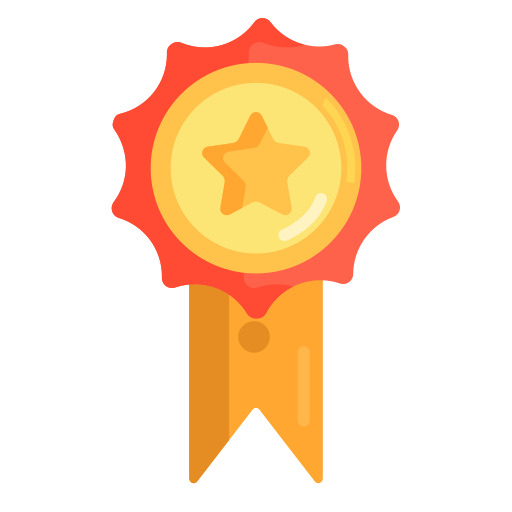
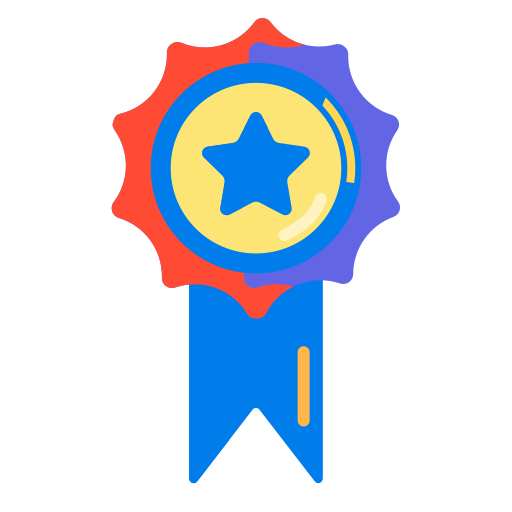
optimus layout color

Changed region(s): [[0.2812, 0.0625, 0.7812, 0.9375], [0.375, 0.2188, 0.625, 0.4375]]

diff --git a/src/components/client/search.client.tsx b/src/components/client/search.client.tsx
@@ -21,7 +21,8 @@ import { useNavigate, useSearchParams, useLocation } from "react-router-dom";
 import { useAppDispatch } from "@/redux/hooks";
 import { findJobsByAI } from "@/redux/slice/jobSlide";
 import Typewriter from "typewriter-effect";
-import styles from "styles/client.module.scss";
+import "@/styles/stylespotfolio/search.client.scss";
+import { useCurrentApp } from "../context/app.context";
 
 const { Option } = Select;
 
@@ -34,6 +35,7 @@ const SearchClient = () => {
   const [searchParams] = useSearchParams();
   const location = useLocation();
   const dispatch = useAppDispatch();
+  const { theme } = useCurrentApp();
 
   useEffect(() => {
     // CẬP NHẬT USEEFFECT ĐỂ ĐỌC CẢ THAM SỐ CỦA AI SEARCH
@@ -215,7 +217,22 @@ const SearchClient = () => {
       <div className="search-form-overlay">
         <Row justify="center">
           <Col span={24} style={{ textAlign: "center", marginBottom: "20px" }}>
-            <h2 className="typewriter-title">
+            <h2
+              style={{
+                ...(theme === "dark"
+                  ? {
+                      background:
+                        "linear-gradient(90deg, #1b74ff, #a880ff 96.79%)",
+                      WebkitBackgroundClip: "text",
+                      backgroundClip: "text",
+                      color: "transparent",
+                      fontWeight: 500,
+                    }
+                  : { color: "#000" }),
+                fontWeight: 600,
+                marginBottom: "0.25rem",
+              }}
+            >
               <Typewriter
                 options={{
                   strings: [

diff --git a/src/pages/job/JobDetailPanel.tsx b/src/pages/job/JobDetailPanel.tsx
@@ -17,6 +17,7 @@ import dayjs from "dayjs";
 import relativeTime from "dayjs/plugin/relativeTime";
 import ApplyModal from "@/components/client/modal/apply.modal";
 import { Link } from "react-router-dom";
+import { useCurrentApp } from "@/components/context/app.context";
 
 dayjs.extend(relativeTime);
 
@@ -26,6 +27,7 @@ const JobDetailPanel = () => {
   const [isModalOpen, setIsModalOpen] = useState<boolean>(false);
   const [searchParams] = useSearchParams();
   const id = searchParams.get("id");
+  const { theme } = useCurrentApp();
 
   useEffect(() => {
     const fetchJobDetail = async () => {
@@ -77,9 +79,17 @@ const JobDetailPanel = () => {
                     rel="noopener noreferrer"
                     className="company-name"
                     style={{
-                      textDecoration: "none",
-                      color: "var(--text-gray)",
-                      cursor: "pointer",
+                      ...(theme === "dark"
+                        ? {
+                            background:
+                              "linear-gradient(90deg, #1b74ff, #a880ff 96.79%)",
+                            WebkitBackgroundClip: "text",
+                            backgroundClip: "text",
+                            color: "transparent",
+                            textDecoration: "none",
+                          }
+                        : { color: "#000", textDecoration: "none" }),
+                      fontWeight: 600,
                     }}
                     onMouseOver={(e) =>
                       (e.currentTarget.style.textDecoration = "underline")

diff --git a/src/styles/panel-detail.scss b/src/styles/panel-detail.scss
@@ -36,8 +36,15 @@
         font-size: 1.75rem;
         margin-bottom: 0.5rem;
         font-weight: 600;
-        color: var(--text-white);
+        background: var(--linear-gradient-blue-purple-company);
         line-height: 1.2;
+
+        -webkit-background-clip: text;
+        /* Dành cho trình duyệt Chrome/Safari */
+        background-clip: text;
+
+        /* Làm cho màu của chữ trở nên trong suốt để nền hiện ra */
+        color: transparent;
       }
       .location {
         font-size: 0.9rem;
@@ -103,4 +110,39 @@
 /* Hoặc nếu bạn muốn chỉ áp dụng cho thẻ strong */
 [data-bs-theme="dark"] strong[style*="color"] {
   color: #ffffff !important;
+}
+
+[data-bs-theme="dark"] {
+  .company-title {
+    .name {
+      font-size: 1.75rem;
+      margin-bottom: 0.5rem;
+      font-weight: 600;
+      background: var(--linear-gradient-blue-purple);
+      line-height: 1.2;
+
+      -webkit-background-clip: text;
+      /* Dành cho trình duyệt Chrome/Safari */
+      background-clip: text;
+
+      /* Làm cho màu của chữ trở nên trong suốt để nền hiện ra */
+      color: transparent;
+    }
+    .location {
+      font-size: 0.9rem;
+      color: var(--text-gray);
+    }
+  }
+}
+
+[data-bs-theme="light"] {
+  .company-title {
+    .name {
+      font-size: 1.75rem;
+      margin-bottom: 0.5rem;
+      font-weight: 600;
+      /* Làm cho màu của chữ trở nên trong suốt để nền hiện ra */
+      color: black;
+    }
+  }
 }

diff --git a/src/styles/client.detail.job.scss b/src/styles/client.detail.job.scss
@@ -173,24 +173,6 @@
       background-color: white;
       padding: 1px;
     }
-    .job-info {
-      .header {
-        font-size: 1.75rem;
-        margin-bottom: 0.25rem;
-        font-weight: 500;
-        /* Đây là dải màu gradient giống hệt "Hello, SOS" */
-        background: var(--text-title-managecv);
-
-        /* Các thuộc tính để áp dụng gradient vào chữ */
-        -webkit-background-clip: text;
-        background-clip: text;
-        color: transparent;
-      }
-      .company-name {
-        font-size: 1rem;
-        color: var(--text-gray);
-      }
-    }
   }
 
   .btn-apply {
@@ -247,5 +229,34 @@
     border: 1px solid #444;
     color: #a97af5;
     font-weight: bold;
+  }
+}
+
+[data-bs-theme="dark"] {
+  .job-info {
+    .header {
+      font-size: 1.75rem;
+      margin-bottom: 0.25rem;
+      font-weight: 500;
+      /* Đây là dải màu gradient giống hệt "Hello, SOS" */
+      background: var(--text-title-managecv) !important;
+
+      /* Các thuộc tính để áp dụng gradient vào chữ */
+      -webkit-background-clip: text;
+      background-clip: text;
+      color: transparent;
+    }
+  }
+}
+
+[data-bs-theme="light"] {
+  .job-info {
+    .header {
+      font-size: 1.75rem;
+      margin-bottom: 0.25rem;
+      font-weight: 500;
+      /* Đây là dải màu gradient giống hệt "Hello, SOS" */
+      color: black;
+    }
   }
 }

diff --git a/src/components/client/modal/manage.account.tsx b/src/components/client/modal/manage.account.tsx
@@ -99,10 +99,10 @@ const UserResume = () => {
                 <td>{dayjs(cv.createdAt).format("DD-MM-YYYY HH:mm:ss")}</td>
                 <td className="text-center">
                   <Button
-                    variant="outline-info"
                     size="sm"
                     href={`${import.meta.env.VITE_BACKEND_URL}/storage/resume/${cv?.url}`}
                     target="_blank"
+                    className="update-btn"
                   >
                     Chi tiết
                   </Button>
@@ -235,16 +235,17 @@ const JobByEmail = () => {
     }),
     option: (provided: any, state: any) => ({
       ...provided,
-      backgroundColor: state.isSelected
-        ? getCssVar("--brand-social")
+      background: state.isSelected
+        ? getCssVar("--linear-gradient-blue-purple")
         : state.isFocused
-          ? getCssVar("--option-skill-managecard")
+          ? getCssVar("--linear-gradient-blue-purple")
           : "transparent",
       color: getCssVar("--text-white"),
     }),
     multiValue: (provided: any) => ({
       ...provided,
-      backgroundColor: `rgba(${getCssVar("--brand-social-rgb")}, 0.3)`,
+      background: getCssVar("--linear-gradient-blue-purple"),
+      borderRadius: "30px",
     }),
     multiValueLabel: (provided: any) => ({
       ...provided,

diff --git a/src/styles/stylespotfolio/manage-account.scss b/src/styles/stylespotfolio/manage-account.scss
@@ -61,19 +61,19 @@
     .form-text {
       color: var(--text-gray); // Dùng biến cho text phụ
     }
+  }
+}
+.update-btn {
+  // Dùng biến --resize-button cho đồng bộ
+  background: var(--resize-button);
+  border: none;
+  font-weight: 600;
+  padding: 0.5rem 1.5rem;
+  transition: all 0.3s ease;
+  border-radius: 30px;
 
-    .update-btn {
-      // Dùng biến --resize-button cho đồng bộ
-      background: var(--resize-button);
-      border: none;
-      font-weight: 600;
-      padding: 0.5rem 1.5rem;
-      transition: all 0.3s ease;
-
-      &:hover {
-        transform: translateY(-2px);
-        box-shadow: 0 4px 15px rgba(var(--brand-social-rgb), 0.4);
-      }
-    }
+  &:hover {
+    transform: translateY(-2px);
+    box-shadow: 0 4px 15px rgba(var(--brand-social-rgb), 0.4);
   }
 }

diff --git a/src/styles/stylespotfolio/variable.scss b/src/styles/stylespotfolio/variable.scss
@@ -18,6 +18,7 @@
   --capra-ramp-5: #b25aff; /* Màu mới */
 }
 $light-theme: (
+  linear-gradient-blue-purple: linear-gradient(90deg, #1b74ff, #a880ff 96.79%),
   text-tilte-newjob: black,
   background-dropdown-search: white,
   background-input-search: #e3dddd,
@@ -58,9 +59,16 @@ $light-theme: (
   skill-card-background: #f5f6f7,
   border-top-skill-card:
     "linear-gradient(to right, transparent, #fff, #fff, transparent)",
+  linear-gradient-blue-purple-company: black,
 );
 
 $dark-theme: (
+  linear-gradient-blue-purple: linear-gradient(90deg, #1b74ff, #a880ff 96.79%),
+  linear-gradient-blue-purple-company: linear-gradient(
+      90deg,
+      #1b74ff,
+      #a880ff 96.79%
+    ),
   option-skill-managecard: #ff5411da,
   brand-social-rgb: rgb(236, 72, 153),
   background-file-search:

diff --git a/src/components/account/ChangePasswordTab.tsx b/src/components/account/ChangePasswordTab.tsx
@@ -230,7 +230,12 @@ const ChangePasswordTab = () => {
           </Form.Group>
         </Col>
       </Row>
-      <Button variant="primary" type="submit" disabled={isSubmitting}>
+      <Button
+        variant="primary"
+        type="submit"
+        disabled={isSubmitting}
+        className="update-btn"
+      >
         {isSubmitting ? (
           <>
             <Spinner as="span" animation="border" size="sm" /> &nbsp; Đang xử
@@ -280,6 +285,7 @@ const ChangePasswordTab = () => {
                     type="submit"
                     variant="primary"
                     disabled={isRequestingOtp}
+                    className="update-btn"
                   >
                     {isRequestingOtp ? "Đang gửi..." : "Gửi mã"}
                   </Button>

diff --git a/src/components/client/card/company.card.tsx b/src/components/client/card/company.card.tsx
@@ -99,7 +99,7 @@ const CompanyCard = (props: IProps) => {
                                 ...(theme === "dark"
                                   ? {
                                       background:
-                                        "linear-gradient(-45deg, #ff9100 10%, #ff9100 35%, #ff530f 70%, #e62c6d 100%)",
+                                        "linear-gradient(90deg, #1b74ff, #a880ff 96.79%)",
                                       WebkitBackgroundClip: "text",
                                       backgroundClip: "text",
                                       color: "transparent",

diff --git a/src/styles/stylespotfolio/search.client.scss b/src/styles/stylespotfolio/search.client.scss
@@ -30,19 +30,6 @@
     padding: 2rem;
     border-radius: 12px;
   }
-
-  h2 {
-    font-size: 2.5rem; // tương đương 40px
-    font-weight: 500; // Có thể dùng 500 hoặc bold tùy ý
-
-    /* Đây là dải màu gradient giống hệt "Hello, SOS" */
-    background: var(--text-color-nobackground);
-
-    /* Các thuộc tính để áp dụng gradient vào chữ */
-    -webkit-background-clip: text;
-    background-clip: text;
-    color: transparent;
-  }
 }
 
 // 3. Wrapper cho hiệu ứng viền (sửa đổi và bổ sung)
